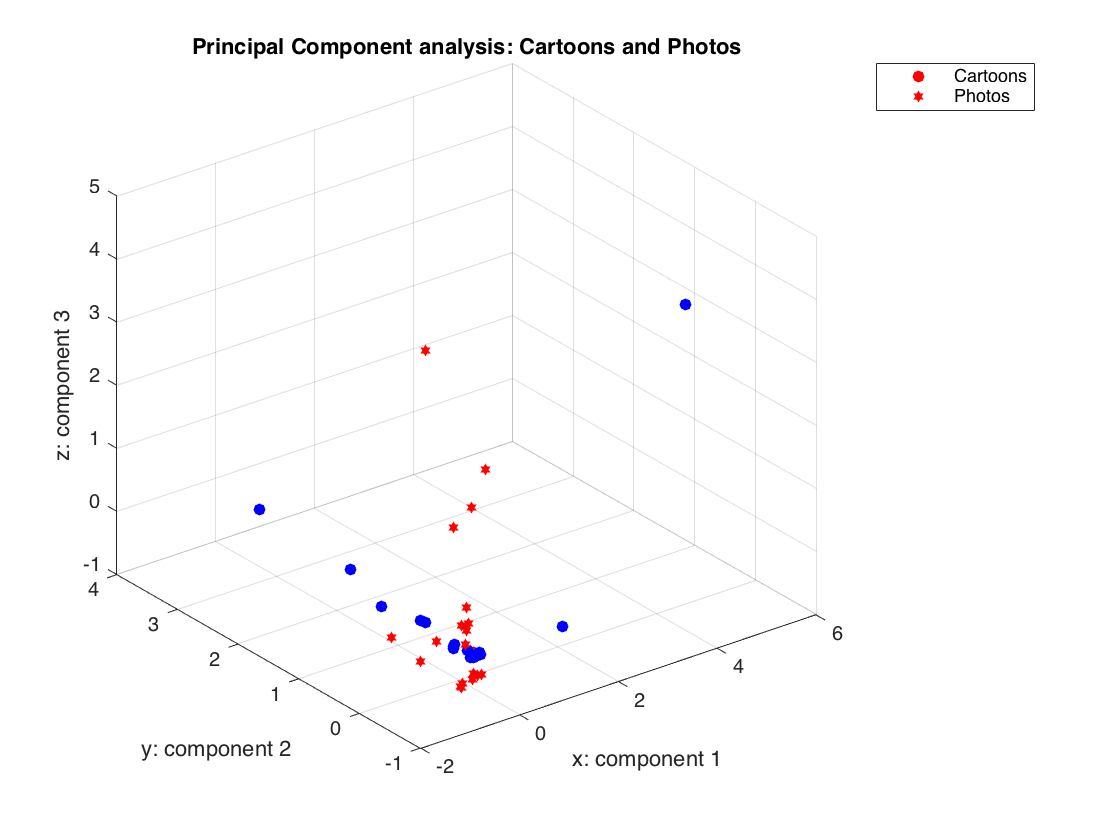
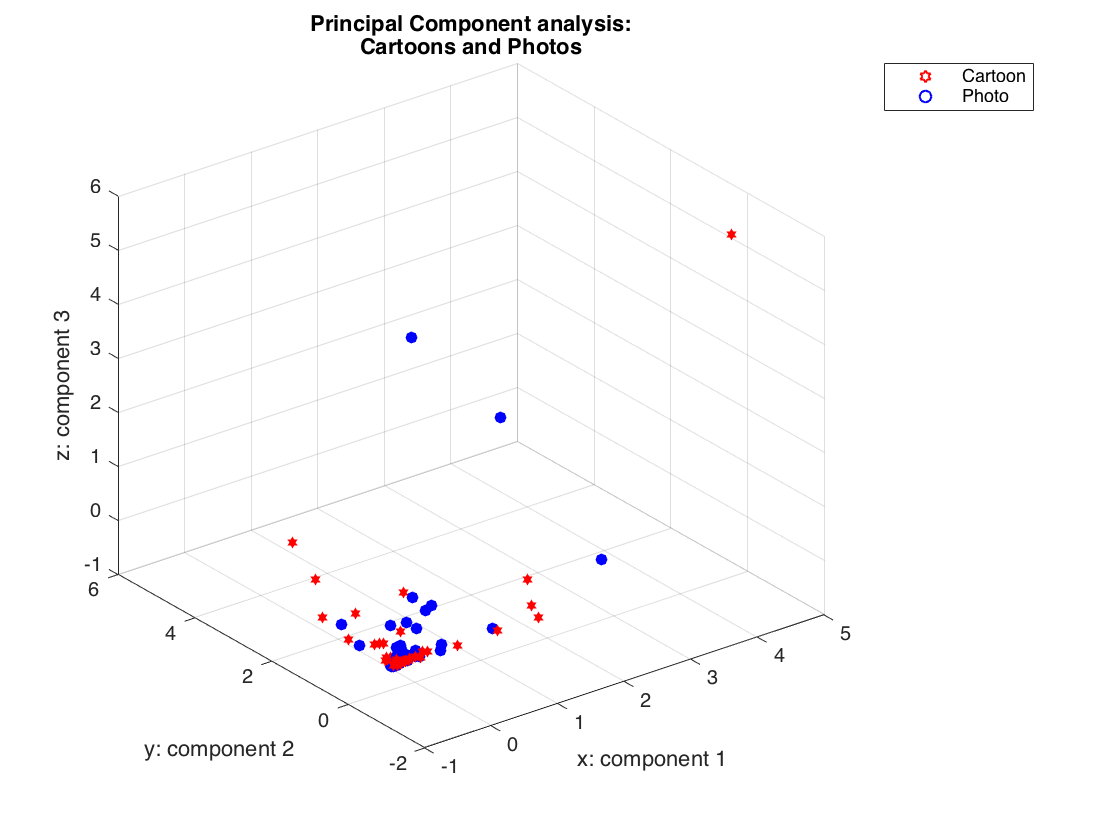
Adding additional data to datasets

diff --git a/Principal Components Analysis/html/execute.html b/Principal Components Analysis/html/execute.html
@@ -138,15 +138,15 @@ dimensions for visualisation purpuses).
 ---------------------------------------------
 
 Best k for the Cartoon set:
-The best k-value is: 3
-Variance retained for the best k: 0.990387%. 
+The best k-value is: 7
+Variance retained for the best k: 0.990071%. 
 
 Best k for the Photo set:
-The best k-value is: 7
-Variance retained for the best k: 0.994265%. 
+The best k-value is: 8
+Variance retained for the best k: 0.991987%. 
 
 For visualisation purposes k = 3.
-Variance retained for current k: 0.512127%. 
+Variance retained for current k: 0.428756%. 
 
 </pre><h2>=================== Part 3: Dimension Reduction ===================<a name="5"></a></h2><pre>Implementing the projection step to map the data onto the
 first k eigenvectors. The code will then plot the data in this reduced
@@ -155,19 +155,24 @@ fprintf(<span class="string">'Dimension reduction on the two datasets.'</span>);
 fprintf(<span class="string">'\n---------------------------------------------\n'</span>);
 
 <span class="comment">%  Plot the normalized dataset (returned from pca)</span>
-scatter3(X_norm_c(:, 1), X_norm_c(:, 2), X_norm_c(:, 3), <span class="string">'filled'</span>, <span class="string">'bo'</span>);
-title(<span class="string">'Principal Component analysis: Cartoons and Photos'</span>);
+figure;
+scatter3(X_norm_c(:, 1), X_norm_c(:, 2), X_norm_c(:, 3), <span class="string">'filled'</span>, <span class="string">'rh'</span>);
 hold <span class="string">on</span>;
 grid <span class="string">on</span>;
 
-scatter3(X_norm_p(:, 1), X_norm_p(:, 2), X_norm_p(:, 3), <span class="string">'filled'</span>, <span class="string">'rh'</span>);
+scatter3(X_norm_p(:, 1), X_norm_p(:, 2), X_norm_p(:, 3), <span class="string">'filled'</span>, <span class="string">'bo'</span>);
 rotate3d <span class="string">on</span>;
 
 xlabel(<span class="string">'x: component 1'</span>);
 ylabel(<span class="string">'y: component 2'</span>);
 zlabel(<span class="string">'z: component 3'</span>);
 
-legend(<span class="string">'Cartoons'</span>,<span class="string">'Photos'</span>)
+h = zeros(2, 1);
+h(1) = plot(NaN, NaN, <span class="string">'rh'</span>);
+h(2) = plot(NaN, NaN, <span class="string">'bo'</span>);
+legend(h, <span class="string">'Cartoon'</span>,<span class="string">'Photo'</span>);
+
+title({<span class="string">'Principal Component analysis:'</span>;<span class="string">'Cartoons and Photos'</span>})
 </pre><pre class="codeoutput">---------------------------------------------
 Dimension reduction on the two datasets.
 ---------------------------------------------
@@ -258,19 +263,24 @@ fprintf('Dimension reduction on the two datasets.');
 fprintf('\nREPLACE_WITH_DASH_DASHREPLACE_WITH_DASH_DASHREPLACE_WITH_DASH_DASHREPLACE_WITH_DASH_DASHREPLACE_WITH_DASH_DASHREPLACE_WITH_DASH_DASHREPLACE_WITH_DASH_DASHREPLACE_WITH_DASH_DASHREPLACE_WITH_DASH_DASHREPLACE_WITH_DASH_DASHREPLACE_WITH_DASH_DASHREPLACE_WITH_DASH_DASHREPLACE_WITH_DASH_DASHREPLACE_WITH_DASH_DASHREPLACE_WITH_DASH_DASHREPLACE_WITH_DASH_DASHREPLACE_WITH_DASH_DASHREPLACE_WITH_DASH_DASHREPLACE_WITH_DASH_DASHREPLACE_WITH_DASH_DASHREPLACE_WITH_DASH_DASHREPLACE_WITH_DASH_DASH-\n');
 
 %  Plot the normalized dataset (returned from pca)
-scatter3(X_norm_c(:, 1), X_norm_c(:, 2), X_norm_c(:, 3), 'filled', 'bo');
-title('Principal Component analysis: Cartoons and Photos');
+figure;
+scatter3(X_norm_c(:, 1), X_norm_c(:, 2), X_norm_c(:, 3), 'filled', 'rh');
 hold on;
 grid on;
 
-scatter3(X_norm_p(:, 1), X_norm_p(:, 2), X_norm_p(:, 3), 'filled', 'rh');
+scatter3(X_norm_p(:, 1), X_norm_p(:, 2), X_norm_p(:, 3), 'filled', 'bo');
 rotate3d on;
 
 xlabel('x: component 1');
 ylabel('y: component 2');
 zlabel('z: component 3');
 
-legend('Cartoons','Photos')
+h = zeros(2, 1);
+h(1) = plot(NaN, NaN, 'rh');
+h(2) = plot(NaN, NaN, 'bo');
+legend(h, 'Cartoon','Photo');
+
+title({'Principal Component analysis:';'Cartoons and Photos'})
 
 
 ##### SOURCE END #####

diff --git a/Principal Components Analysis/execute.m b/Principal Components Analysis/execute.m
@@ -83,17 +83,22 @@ fprintf('Dimension reduction on the two datasets.');
 fprintf('\n---------------------------------------------\n');
 
 %  Plot the normalized dataset (returned from pca)
-scatter3(X_norm_c(:, 1), X_norm_c(:, 2), X_norm_c(:, 3), 'filled', 'bo');
-title('Principal Component analysis: Cartoons and Photos');
+figure;
+scatter3(X_norm_c(:, 1), X_norm_c(:, 2), X_norm_c(:, 3), 'filled', 'rh');
 hold on;
 grid on;
 
-scatter3(X_norm_p(:, 1), X_norm_p(:, 2), X_norm_p(:, 3), 'filled', 'rh');
+scatter3(X_norm_p(:, 1), X_norm_p(:, 2), X_norm_p(:, 3), 'filled', 'bo');
 rotate3d on;
 
 xlabel('x: component 1');
 ylabel('y: component 2');
 zlabel('z: component 3');
 
-legend('Cartoons','Photos')
+h = zeros(2, 1);
+h(1) = plot(NaN, NaN, 'rh');
+h(2) = plot(NaN, NaN, 'bo');
+legend(h, 'Cartoon','Photo');
+
+title({'Principal Component analysis:';'Cartoons and Photos'})
 
